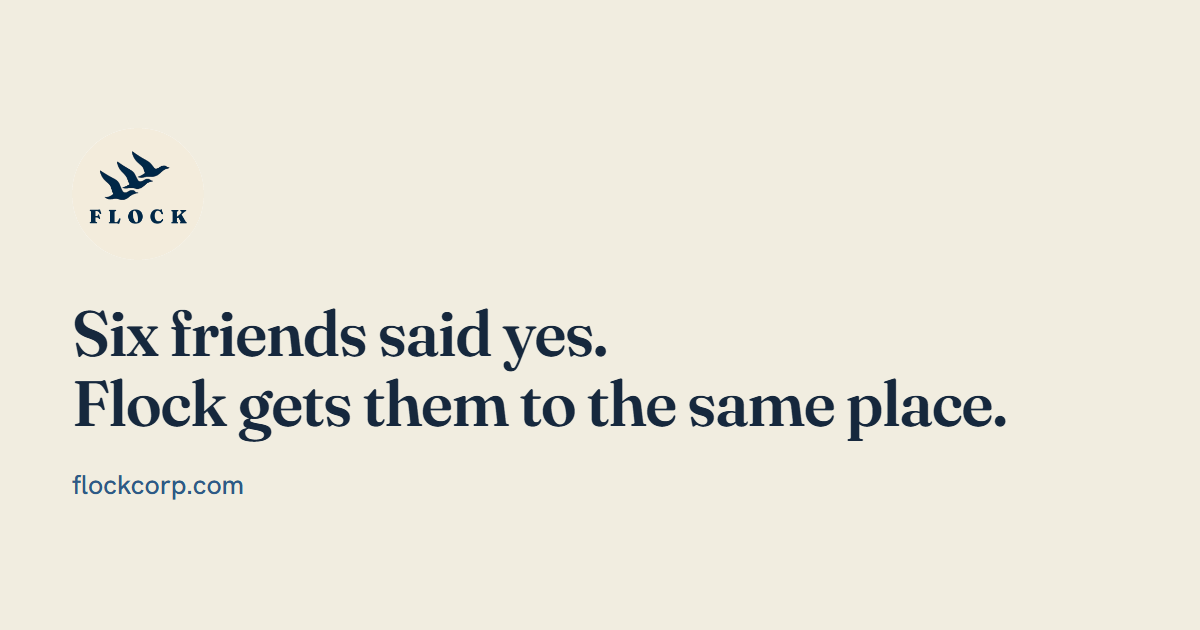
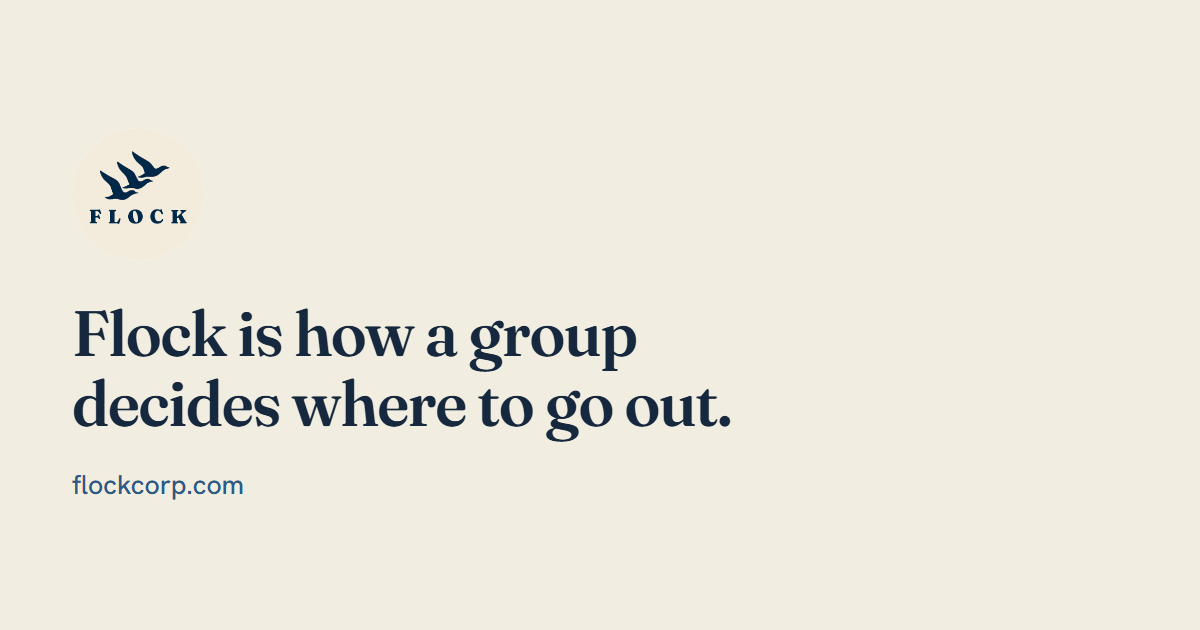
One headline everywhere: "Flock is how a group decides where to go out."

Changed region(s): [[0.0617, 0.4825, 0.8325, 0.6937]]

diff --git a/frontend/api/marketing-page.js b/frontend/api/marketing-page.js
@@ -102,7 +102,7 @@
 
 const CANONICAL_HOST = 'https://www.flockcorp.com';
 const OG_IMAGE = CANONICAL_HOST + '/og-image.png';
-const OG_IMAGE_ALT = 'Flock. Six friends said yes. Flock gets them to the same place.';
+const OG_IMAGE_ALT = 'Flock is how a group decides where to go out.';
 const CONTACT_EMAIL = 'social@flockcorp.com';
 
 // Title and description per route mirror what each React page writes via its
@@ -111,7 +111,7 @@ const CONTACT_EMAIL = 'social@flockcorp.com';
 const PAGE_META = {
   home: {
     path: '/',
-    title: 'Flock | Plan the night out with your friends',
+    title: 'Flock | How a group decides where to go out',
     description: 'Make the plan in Flock instead of the group chat. Your friends vote on where to go, and everyone’s budget stays private.',
   },
   about: {
@@ -140,14 +140,14 @@ const PAGE_META = {
 // drift test told you to; see the regeneration note in the header.
 const PAGE_BLOCKS = {
   home: [
-    ["h1", "Six friends said yes. Flock gets them to the same place."],
-    ["p", "Make the plan in Flock instead of the group chat. Your friends vote on where to go, and nobody has to say their budget out loud."],
+    ["h1", "Flock is how a group decides where to go out."],
+    ["p", "Make the plan here instead of the group chat. Everyone gets a vote, and nobody has to say their budget out loud."],
     ["p", "It’s free and runs in your browser right now. The iPhone app is in App Store review; get an email when it’s out. Flock took 1st place at PA DECA States."],
     ["h2", "See how busy it is before anyone leaves."],
     ["p", "Search a place below. Flock starts from how busy it usually is at this hour and moves the number with the latest live readings where it has them. If your first pick is packed, it points you to a quieter one nearby."],
     ["p", "Three reports from people at a venue move its score for that night and hour."],
-    ["h2", "Here is a Friday plan, start to finish."],
-    ["p", "Most plans stop where this chat did. The same Friday in Flock takes five steps, and nobody has to carry it."],
+    ["h2", "Everyone said yes. Then the chat went quiet."],
+    ["p", "Here is the same Friday in Flock, start to finish. It takes five steps, and nobody has to carry it."],
     ["p", "Thursday, 4:10 PM"],
     ["h3", "Maya starts a flock."],
     ["p", "Friday Night Crew, 8 o’clock. Four friends get the invite; anyone without the app can join in from a link, budget and all, with no account."],
@@ -1029,7 +1029,7 @@ async function handler(req, res) {
     console.error('marketing-page: fallback document:', (err && err.name) || 'Error');
     try {
       send(res, '<!doctype html>\n<html lang="en"><head><meta charset="utf-8">'
-        + '<title>Flock | Plan the night out with your friends</title>'
+        + '<title>Flock | How a group decides where to go out</title>'
         + '<meta name="description" content="Flock is a free app for making plans with friends. The group votes on where to go, and budgets stay private.">'
         + '</head><body><main><h1>Flock</h1>'
         + '<p>Flock is a free group planning app. Start a flock, invite your people, vote on where to go, match budgets privately, and split the bill after.</p>'

diff --git a/frontend/public/index.html b/frontend/public/index.html
@@ -141,21 +141,21 @@
            PAYWALL_ENABLED is unset; if the paywall is ever switched on, this
            copy and the landing page change together.
          ═══════════════════════════════════════════════════════════════════ -->
-    <meta property="og:title" content="Flock | Plan the night out with your friends" />
-    <meta property="og:description" content="Your friends vote on where to go, and nobody has to say their budget out loud." />
+    <meta property="og:title" content="Flock | How a group decides where to go out" />
+    <meta property="og:description" content="Everyone gets a vote, and nobody has to say their budget out loud." />
     <meta property="og:image" content="https://www.flockcorp.com/og-image.png" />
     <meta property="og:image:width" content="1200" />
     <meta property="og:image:height" content="630" />
     <meta property="og:image:type" content="image/png" />
-    <meta property="og:image:alt" content="Flock. Six friends said yes. Flock gets them to the same place." />
+    <meta property="og:image:alt" content="Flock is how a group decides where to go out." />
     <meta property="og:type" content="website" />
     <meta property="og:site_name" content="Flock" />
     <meta property="og:locale" content="en_US" />
     <meta name="twitter:card" content="summary_large_image" />
-    <meta name="twitter:title" content="Flock | Plan the night out with your friends" />
-    <meta name="twitter:description" content="Your friends vote on where to go, and nobody has to say their budget out loud." />
+    <meta name="twitter:title" content="Flock | How a group decides where to go out" />
+    <meta name="twitter:description" content="Everyone gets a vote, and nobody has to say their budget out loud." />
     <meta name="twitter:image" content="https://www.flockcorp.com/og-image.png" />
-    <meta name="twitter:image:alt" content="Flock. Six friends said yes. Flock gets them to the same place." />
+    <meta name="twitter:image:alt" content="Flock is how a group decides where to go out." />
 
     <!-- Icons. The sizes below are the real contents of each file, not a wish
          list: favicon.ico is a 3-image ICO (16/32/48, verified by reading its
@@ -192,7 +192,7 @@
     <link rel="preconnect" href="https://api.flockcorp.com" crossorigin />
 
     <link rel="manifest" href="%PUBLIC_URL%/manifest.json" />
-    <title>Flock | Plan the night out with your friends</title>
+    <title>Flock | How a group decides where to go out</title>
 
     <!-- ═══════════════════════════════════════════════════════════════════
          STRUCTURED DATA (JSON-LD)

diff --git a/frontend/src/website/LandingPage.js b/frontend/src/website/LandingPage.js
@@ -263,7 +263,7 @@ export default function LandingPage() {
   }, [menuOpen]);
 
   useEffect(() => {
-    document.title = 'Flock | Plan the night out with your friends';
+    document.title = 'Flock | How a group decides where to go out';
     const d = document.querySelector('meta[name="description"]');
     if (d) d.setAttribute('content', 'Make the plan in Flock instead of the group chat. Your friends vote on where to go, and everyone’s budget stays private.');
   }, []);
@@ -384,10 +384,10 @@ export default function LandingPage() {
       <section className="lp-hero lp-on-navy" aria-labelledby="lp-h-hero">
         <div className="lp-wrap lp-hero-in">
           <div className="lp-hero-copy">
-            <h1 id="lp-h-hero">Six friends said yes. <span className="lp-keep">Flock gets them</span> <span className="lp-keep">to the same place.</span></h1>
+            <h1 id="lp-h-hero">Flock is how a group <span className="lp-keep">decides where to go out.</span></h1>
             <p className="lp-lead">
-              Make the plan in Flock instead of the group chat. Your friends vote
-              on where to go, and nobody has to say their budget out loud.
+              Make the plan here instead of the group chat. Everyone gets a vote,
+              and nobody has to say their budget out loud.
             </p>
             <div className="lp-hero-cta">
               <a className="lp-btn lp-btn-cream lp-btn-lg" href="/signup">Start a plan</a>
@@ -463,10 +463,10 @@ export default function LandingPage() {
           pictures are the same night. */}
       <section className="lp-sec lp-sec-sand" id="how" aria-labelledby="lp-h-how">
         <div className="lp-wrap">
-          <h2 id="lp-h-how" className="lp-friday-title">Here is a Friday plan, start to finish.</h2>
+          <h2 id="lp-h-how" className="lp-friday-title">Everyone said yes. Then the chat went quiet.</h2>
           <p className="lp-lead lp-friday-lead">
-            Most plans stop where this chat did. The same Friday in Flock takes
-            five steps, and nobody has to carry it.
+            Here is the same Friday in Flock, start to finish. It takes five
+            steps, and nobody has to carry it.
           </p>
 
           <figure className="lp-chat lp-friday-chat">
@@ -475,7 +475,7 @@ export default function LandingPage() {
             <div className="lp-msg">same, where tho</div>
             <div className="lp-msg lp-msg-me">idk what do you guys want</div>
             <div className="lp-msg">I'm good with anything</div>
-            <div className="lp-msg lp-msg-dead">Seen by 6 · nobody went</div>
+            <div className="lp-msg lp-msg-dead">Seen by 5 · nobody went</div>
           </figure>
 
           <div className="lp-friday">

diff --git a/frontend/api/invite-preview.js b/frontend/api/invite-preview.js
@@ -8,7 +8,7 @@ const crypto = require('crypto');
 // WHY THIS EXISTS
 // One index.html is served for every route (CRA has no server rendering), so
 // an invite shared into iMessage or a group chat previews with the marketing
-// tags: "Flock | Plan the night out with your friends". The link that spreads the product
+// tags: "Flock | How a group decides where to go out". The link that spreads the product
 // says nothing about who sent it or what it is. This function answers the
 // preview bots instead, with the host's first name and the plan.
 //
@@ -133,7 +133,7 @@ const CANONICAL_HOST = 'https://www.flockcorp.com';
 // apex -> www redirect when fetching an image. Same file and same dimensions as
 // the default tags in public/index.html; keep them in sync.
 const OG_IMAGE = CANONICAL_HOST + '/og-image.png';
-const OG_IMAGE_ALT = 'Flock. Six friends said yes. Flock gets them to the same place.';
+const OG_IMAGE_ALT = 'Flock is how a group decides where to go out.';
 
 // The per-flock card URL carries a signature when OG_CARD_SECRET is set. The
 // Cloudflare Pages project and the API service hold that secret; Vercel never
@@ -204,7 +204,7 @@ const DISPLAY_TZ = 'America/New_York';
 // Verbatim from public/index.html, so a fallback preview is indistinguishable
 // from what the site serves today. The apostrophe is escaped for the reason
 // DOT is, below.
-const DEFAULT_TITLE = 'Flock | Plan the night out with your friends';
+const DEFAULT_TITLE = 'Flock | How a group decides where to go out';
 const DEFAULT_DESCRIPTION =
   'Make the plan in Flock instead of the group chat. Your friends vote on where to go, and everyone'
   + String.fromCharCode(0x2019) + 's budget stays private.';

diff --git a/frontend/src/__tests__/ogImageCopy.test.js b/frontend/src/__tests__/ogImageCopy.test.js
@@ -59,8 +59,9 @@ describe('the social card says what the page says', () => {
   test('every og:image:alt quotes that same headline', () => {
     const headline = bakedHeadline();
     // "Flock. " prefixes the alt text so a screen reader names the brand
-    // before reading the line off the card.
-    const expected = `Flock. ${headline}`;
+    // before reading the line off the card, unless the line already opens
+    // with the name, as "Flock is how a group decides where to go out." does.
+    const expected = headline.startsWith('Flock ') ? headline : `Flock. ${headline}`;
 
     expect(indexHtml).toContain(`<meta property="og:image:alt" content="${expected}" />`);
     expect(indexHtml).toContain(`<meta name="twitter:image:alt" content="${expected}" />`);

diff --git a/frontend/src/__tests__/copyEmDashSweep.test.js b/frontend/src/__tests__/copyEmDashSweep.test.js
@@ -310,7 +310,7 @@ const ANCHORS = [
   ['src/screens/AddFriends.js', 'Matches the number you typed'],
   ['src/screens/VenueDashboard.js', 'Set your live crowd number, on any plan'],
   ['src/components/PaywallSheet.js', 'Get more out of every night out'],
-  ['src/website/LandingPage.js', 'Here is a Friday plan, start to finish.'],
+  ['src/website/LandingPage.js', 'Everyone said yes. Then the chat went quiet.'],
   // One per root outside src/, for the same reason: these three files are the
   // ones the sweep was widened to reach, and a walk that stopped reaching them
   // reports them clean.

diff --git a/frontend/src/__tests__/cloudflarePagesFunctions.test.js b/frontend/src/__tests__/cloudflarePagesFunctions.test.js
@@ -317,7 +317,7 @@ describe('who gets what', () => {
     const generic = async (route) => {
       const { res } = await run(SITE + route, { headers: { 'User-Agent': UA.twitterbot } });
       expect([route, res.status]).toEqual([route, 200]);
-      expect(await res.text()).toContain('<title>Flock | Plan the night out with your friends</title>');
+      expect(await res.text()).toContain('<title>Flock | How a group decides where to go out</title>');
       expect(res.headers.get('Cache-Control')).toBe('private, no-store, max-age=0');
     };
     await generic('/i/RevokedToken123');

diff --git a/frontend/src/components/auth/LoginScreen.js b/frontend/src/components/auth/LoginScreen.js
@@ -267,7 +267,7 @@ const LoginScreen = ({ onLoginSuccess, onSwitchToSignup, onSwitchToVenueLogin })
     <>
       <img className="auth-mark" src="/logo192.png" alt="" aria-hidden="true" />
       <h1 className="auth-h1">{hasSignedInHere ? 'Welcome back' : 'Plan the night'}</h1>
-      <p className="auth-sub">Nurturing friendship, one flock at a time.</p>
+      <p className="auth-sub">Flock is how a group decides where to go out.</p>
     </>
   );
 

diff --git a/frontend/src/__tests__/aiCrawlerSurface.test.js b/frontend/src/__tests__/aiCrawlerSurface.test.js
@@ -342,7 +342,7 @@ describe('the handler', () => {
       const res = fakeRes();
       await api({ query, url: '/api/marketing-page' }, res);
       expect(res.statusCode).toBe(200);
-      expect(res.body).toContain('Six friends said yes. Flock gets them to the same place.');
+      expect(res.body).toContain('Flock is how a group decides where to go out.');
     }
   });
 
